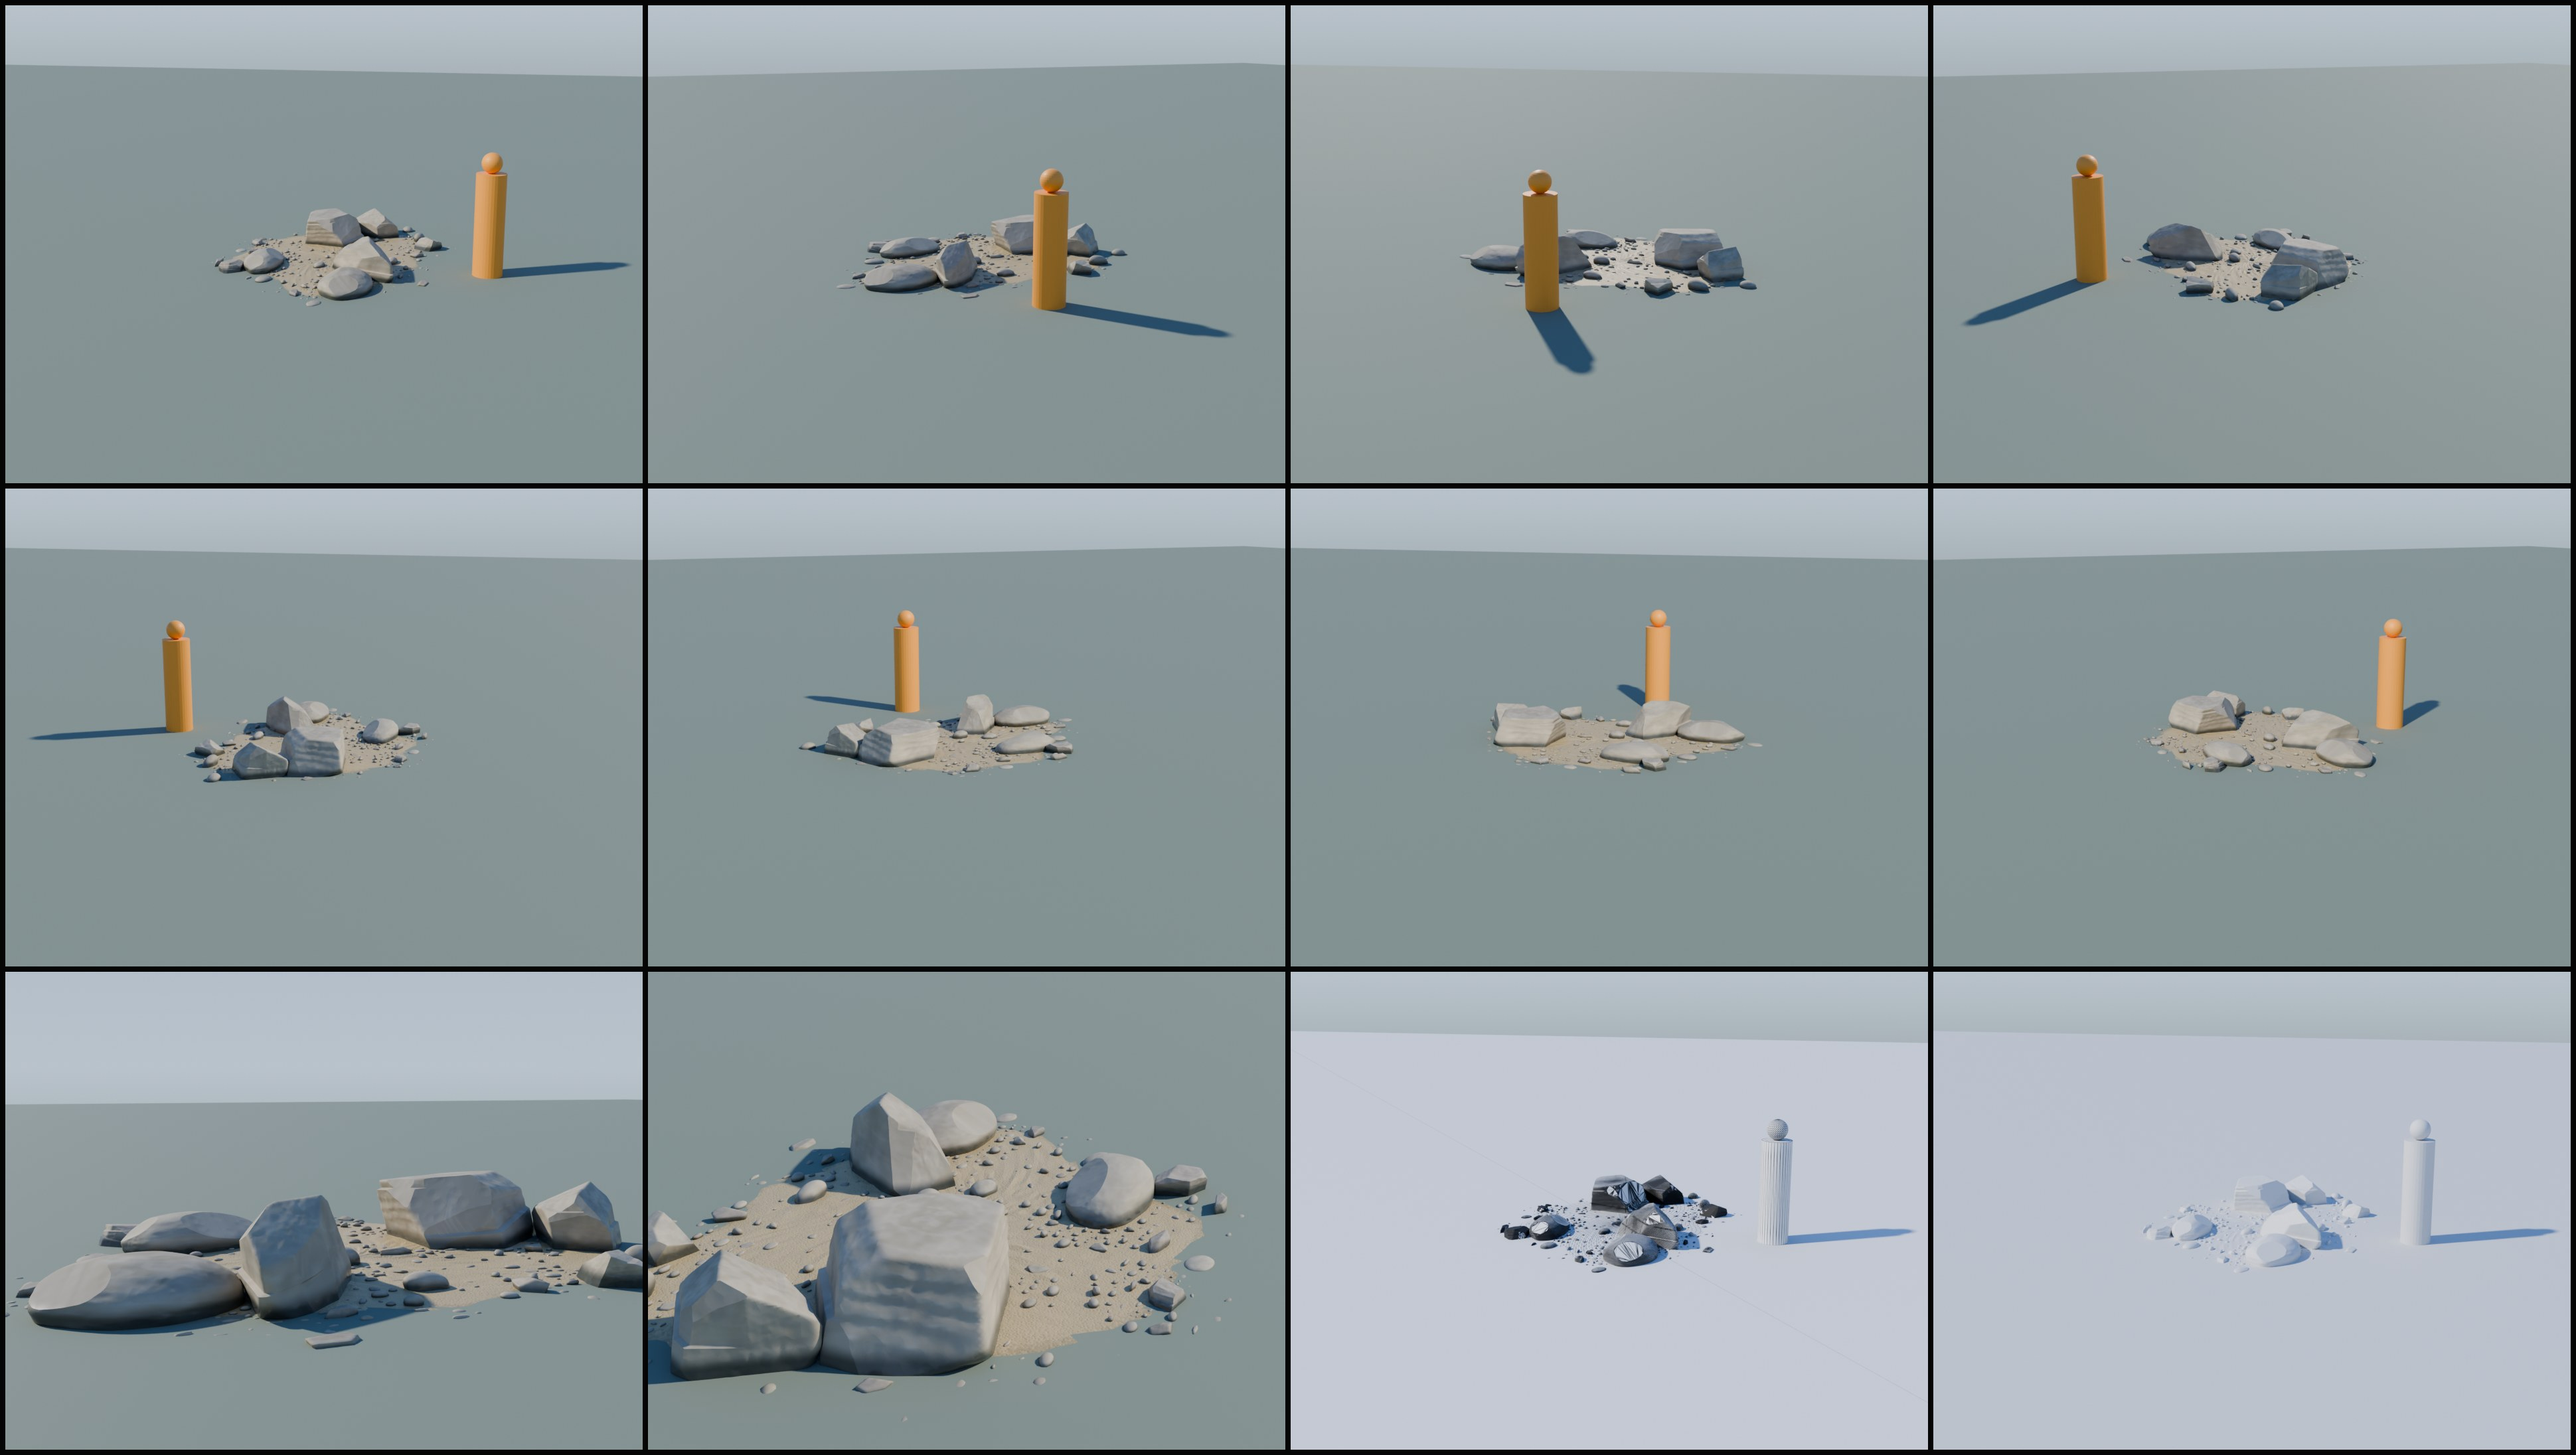
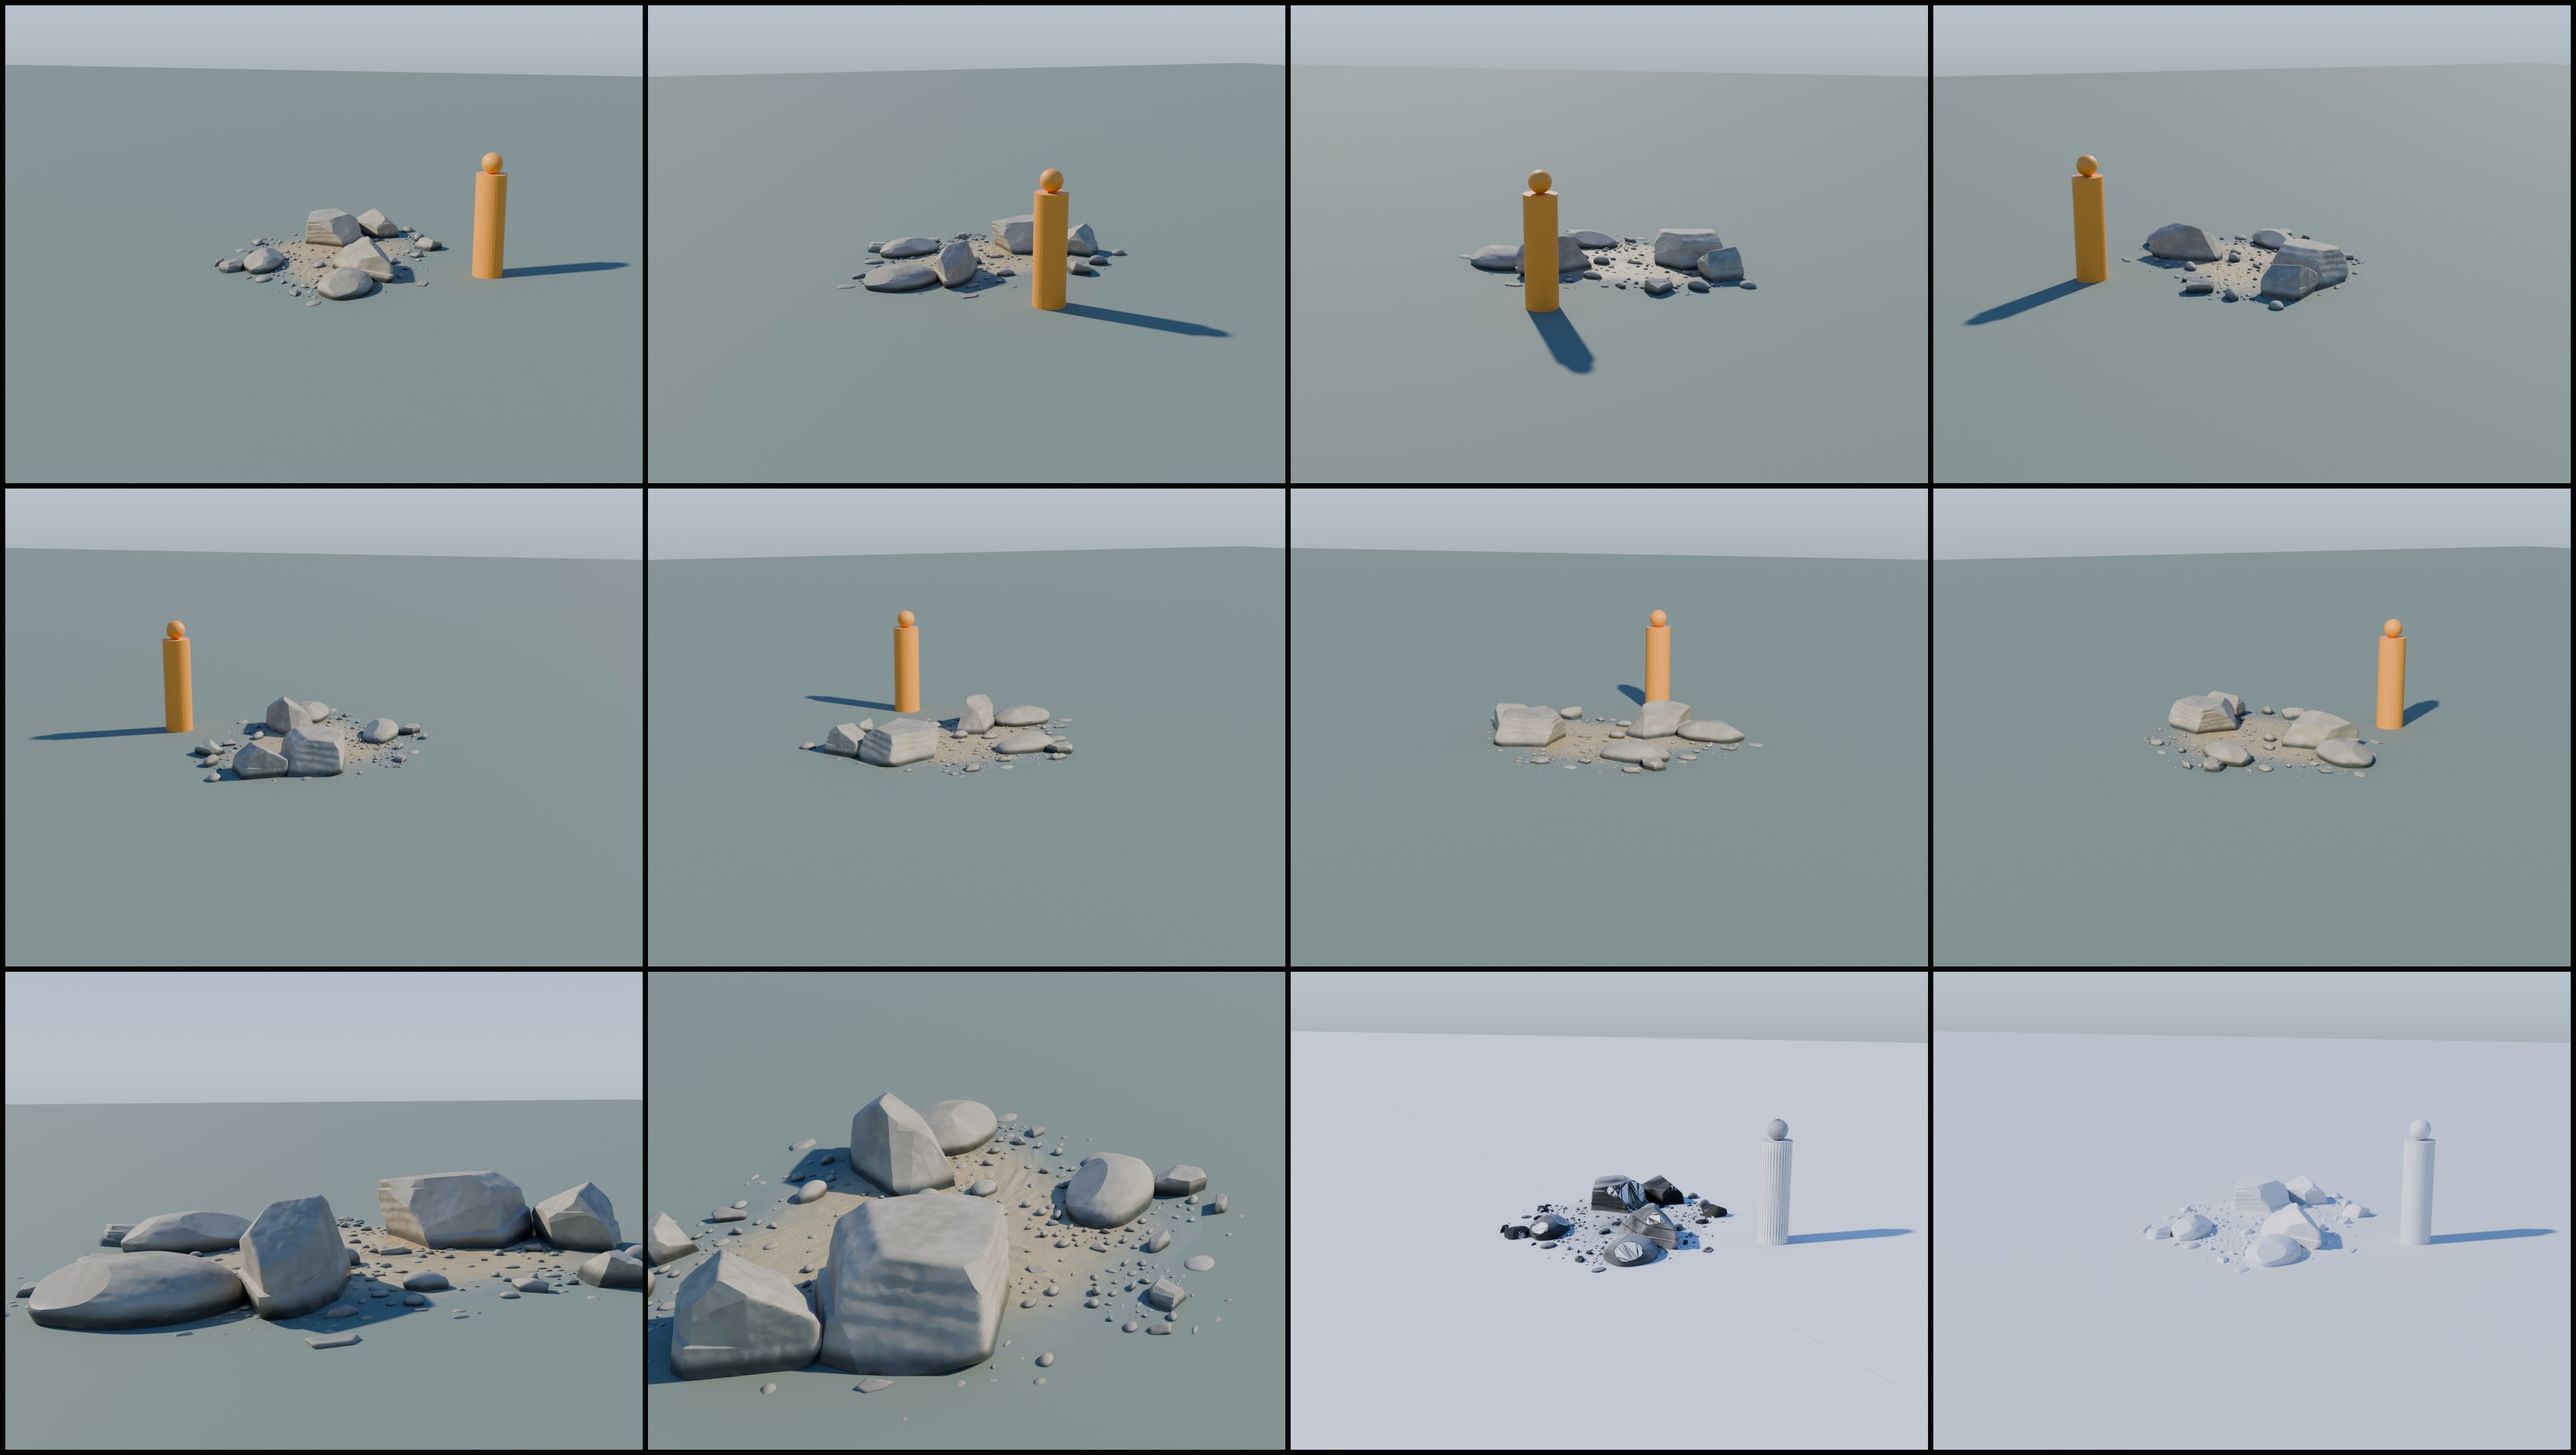
Keep shore gravel edge opaque with geometric and colour taper

diff --git a/assets/rocks/shore_stones_a/build.py b/assets/rocks/shore_stones_a/build.py
@@ -251,7 +251,7 @@ def fines_bed(name, radius, material, height=.16, slope=False):
     coverage.data[0].value=1
     for row in range(1,rings+1):
         for j in range(count):
-            coverage.data[1+(row-1)*count+j].value=1-smooth((row/rings-.52)/.43)
+            coverage.data[1+(row-1)*count+j].value=1-smooth((row/rings-.38)/.28)
     obj["gravel_apron"]=True
     return obj
 
@@ -492,26 +492,30 @@ def wet_finish(material):
 
 def feather_finish(material):
     nodes,links=material.node_tree.nodes,material.node_tree.links
+    bsdf=nodes["Principled BSDF"]
     cover=nodes.new("ShaderNodeAttribute")
     cover.attribute_name="bed_coverage"
-    coord=nodes.new("ShaderNodeTexCoord")
-    grain=nodes.new("ShaderNodeTexNoise")
-    grain.inputs["Scale"].default_value=32
-    links.new(coord.outputs["Object"],grain.inputs["Vector"])
-    cut=nodes.new("ShaderNodeMath")
-    cut.operation="MULTIPLY"
-    cut.inputs[1].default_value=.4
-    links.new(grain.outputs["Fac"],cut.inputs[0])
-    subtract=nodes.new("ShaderNodeMath")
-    subtract.operation="SUBTRACT"
-    links.new(cover.outputs["Fac"],subtract.inputs[0])
-    links.new(cut.outputs[0],subtract.inputs[1])
-    alpha=nodes.new("ShaderNodeMath")
-    alpha.operation="MULTIPLY"
-    alpha.inputs[1].default_value=2
-    alpha.use_clamp=True
-    links.new(subtract.outputs[0],alpha.inputs[0])
-    links.new(alpha.outputs[0],nodes["Principled BSDF"].inputs["Alpha"])
+    palette={key:value["linear_rgb"] for key,value in vrmat.load_palette().items()}
+    ground=blend(blend(palette["canyon_strata"],palette["water_shallow"],.5),palette["grass_green"],.2)
+    color=nodes.new("ShaderNodeMixRGB")
+    color.name="Opaque_ground_blend"
+    color.inputs[1].default_value=(*ground,1)
+    links.new(bsdf.inputs["Base Color"].links[0].from_socket,color.inputs[2])
+    links.new(cover.outputs["Fac"],color.inputs[0])
+    links.new(color.outputs[0],bsdf.inputs["Base Color"])
+    rough=nodes.new("ShaderNodeMixRGB")
+    rough.inputs[1].default_value=(.9,.9,.9,1)
+    links.new(bsdf.inputs["Roughness"].links[0].from_socket,rough.inputs[2])
+    links.new(cover.outputs["Fac"],rough.inputs[0])
+    links.new(rough.outputs[0],bsdf.inputs["Roughness"])
+    for node in list(nodes):
+        if node.type=="BUMP":
+            strength=nodes.new("ShaderNodeMath")
+            strength.operation="MULTIPLY"
+            strength.inputs[1].default_value=node.inputs["Strength"].default_value
+            links.new(cover.outputs["Fac"],strength.inputs[0])
+            links.new(strength.outputs[0],node.inputs["Strength"])
+    bsdf.inputs["Alpha"].default_value=1
 
 
 def contact_stone(obj, other, direction, obstacles):

diff --git a/assets/rocks/shore_stones_a/check.py b/assets/rocks/shore_stones_a/check.py
@@ -158,7 +158,21 @@ if ASSET_DIR.name=="shore_stones_a":
     cover=bed.data.attributes["bed_coverage"].data
     assert min(v.value for v in cover)==0 and max(v.value for v in cover)==1
     assert any(.05<v.value<.95 for v in cover)
-    assert bed.data.materials[0].node_tree.nodes["Principled BSDF"].inputs["Alpha"].is_linked
+    bed_nodes=bed.data.materials[0].node_tree.nodes
+    assert bed_nodes["Opaque_ground_blend"].inputs[0].is_linked
+    assert max(v.co.z for v in bed.data.vertices if v.index>0 and cover[v.index].value==0)<.01
+    for material in bpy.data.materials:
+        if hasattr(material,"surface_render_method"):
+            assert material.surface_render_method!="BLENDED",material.name
+        else:
+            assert material.blend_method=="OPAQUE",material.name
+        assert material.diffuse_color[3]==1,material.name
+        if not material.use_nodes:continue
+        for node in material.node_tree.nodes:
+            assert node.type not in {"BSDF_TRANSPARENT","BSDF_GLASS","BSDF_REFRACTION","HOLDOUT"},(material.name,node.type)
+            if node.type=="BSDF_PRINCIPLED":
+                assert not node.inputs["Alpha"].is_linked and node.inputs["Alpha"].default_value==1,material.name
+                assert not node.inputs["Transmission Weight"].is_linked and node.inputs["Transmission Weight"].default_value==0,material.name
     wet_material=primary[0].data.materials[0]
     mask=wet_material.node_tree.nodes["Physical_wet_band"]
     assert mask.interpolation_type=="SMOOTHSTEP"
@@ -167,7 +181,8 @@ if ASSET_DIR.name=="shore_stones_a":
     assert any(l.from_node.type=="TEX_COORD" and l.from_socket.name=="Object" and l.to_node.type=="SEPXYZ" for l in wet_material.node_tree.links)
     print("SHORE_FRACTURES: six angular stones with two modeled steps and three edge cuts each; two flattened faceted worn forms")
     print("SHORE_GROUPS: three non-intersecting contact pairs plus two loners; closest gaps_m",tuple(round(v,4) for v in gaps))
-    print("SHORE_GRAVEL: varied shapes, sizes and tints; foot-biased fraction",round(grit["foot_biased_fraction"],3),"; buried alpha-feathered edge")
+    print("SHORE_GRAVEL: varied shapes, sizes and tints; foot-biased fraction",round(grit["foot_biased_fraction"],3),"; buried opaque colour-blended edge")
+    print("OPAQUE_MATERIALS: alpha = 1, unlinked; transmission = 0; no transparent BSDF or transparency blending")
     print("SHORE_BASE_WETNESS: object-space analytic 5-14 cm bands on primary stones; dark feet, smooth fade and lower roughness")
     for radius,flat in ((0,.6),(-1,.6),(1,0)):
         try:
